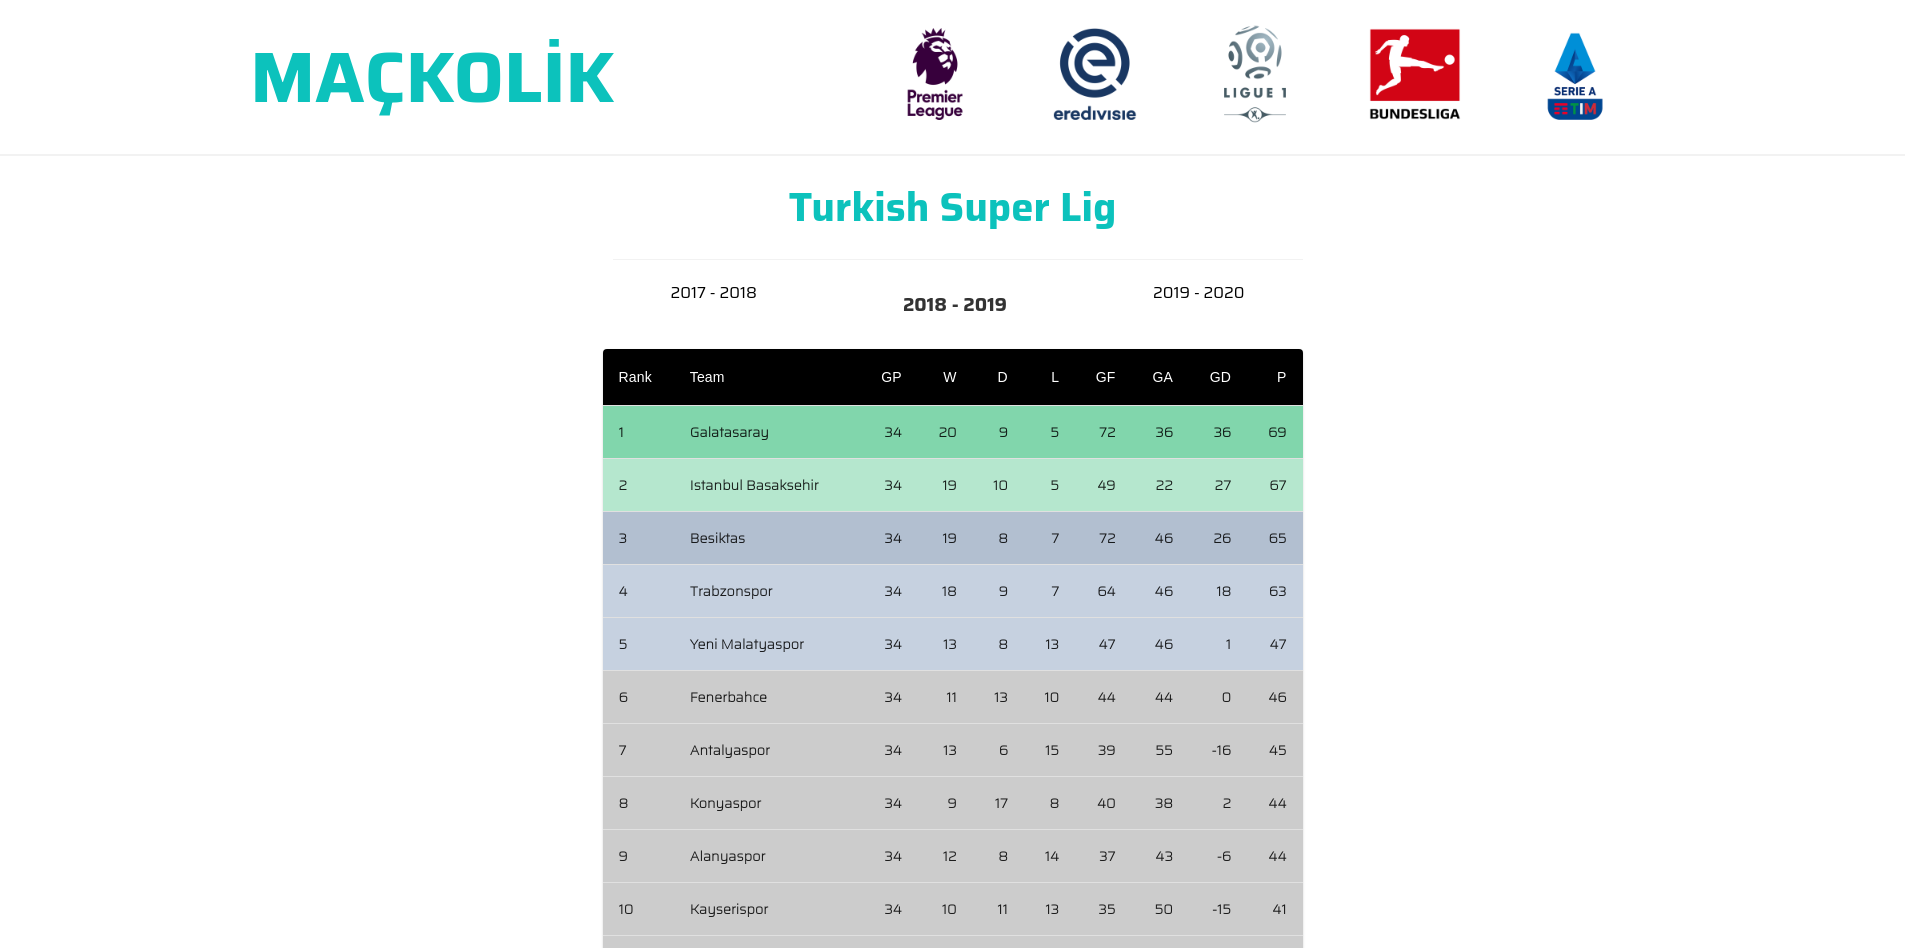
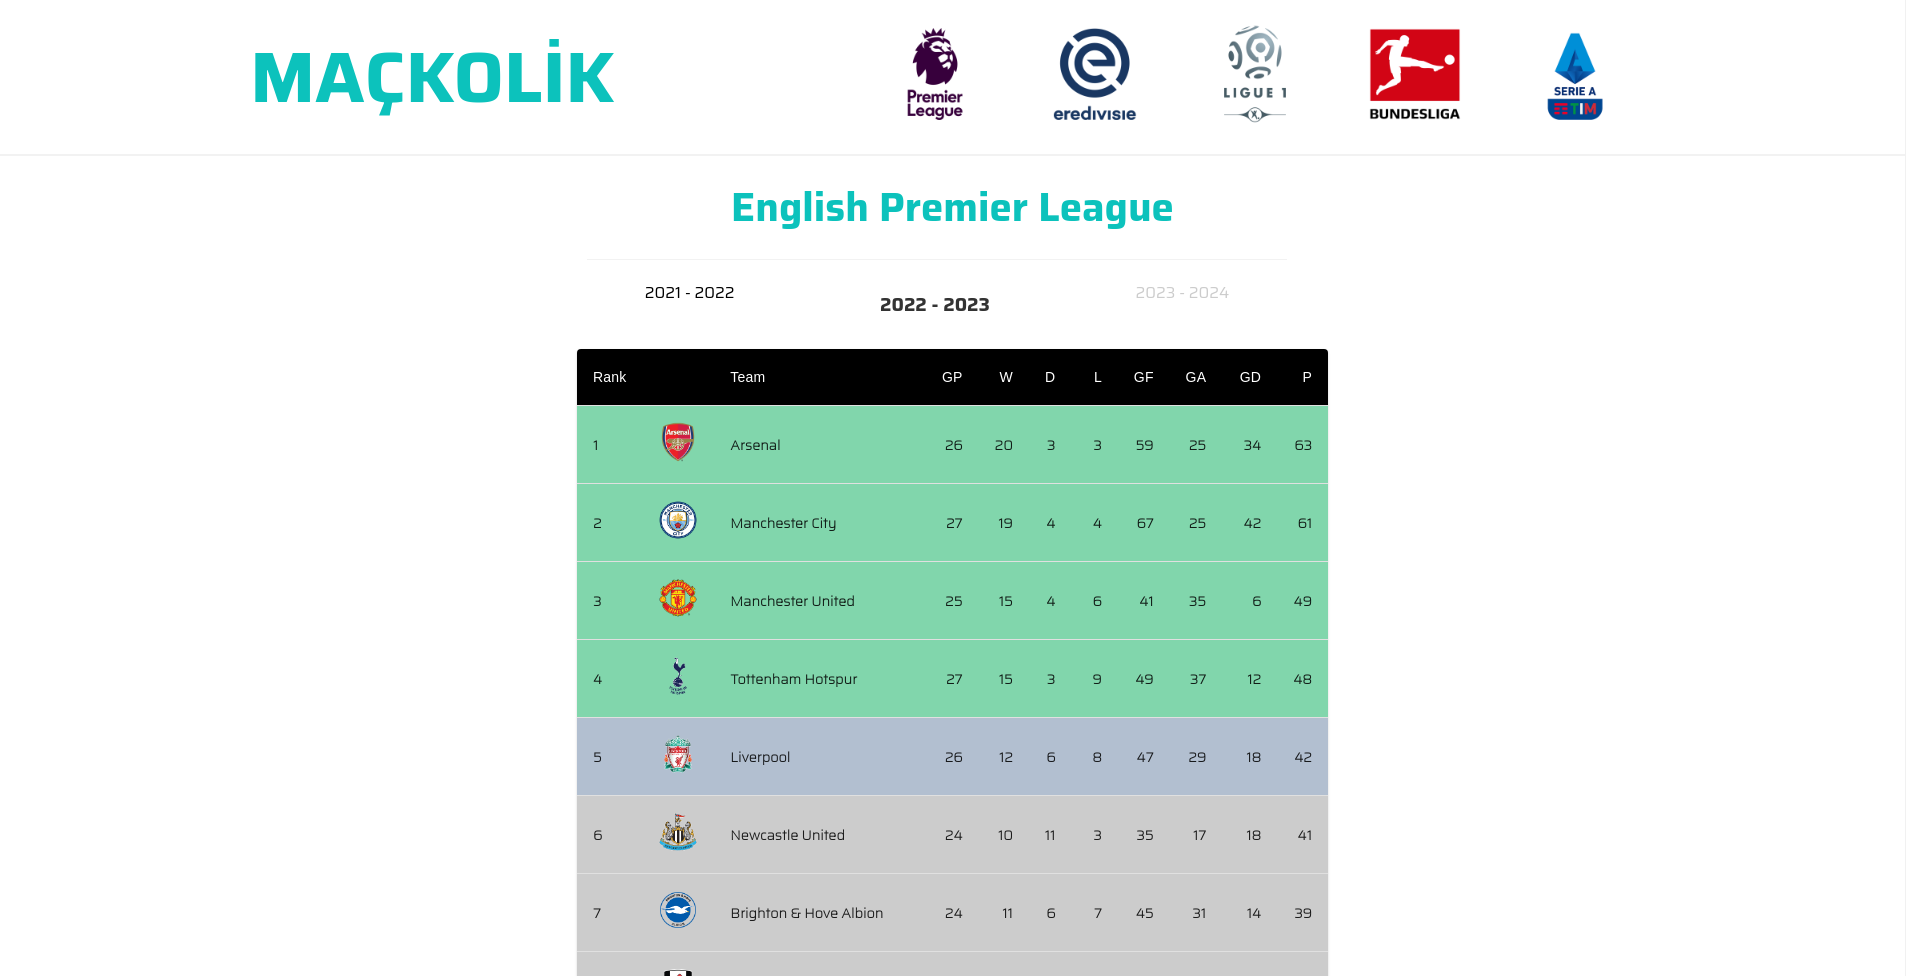
add keys to components & add new screenshot for standings

diff --git a/src/pages/components/StandingsTable.tsx b/src/pages/components/StandingsTable.tsx
@@ -44,8 +44,8 @@ export const StandingsTable = (props: { rows: Team[] }) => {
                         <StyledTableCell align="left"/>
                         <StyledTableCell align="left">Team</StyledTableCell>
 
-                        {TEAM_STATS.map(entry => (
-                            <StyledTableCell align="right">{entry}</StyledTableCell>
+                        {TEAM_STATS.map((entry, index) => (
+                            <StyledTableCell align="right" key={index}>{entry}</StyledTableCell>
                         ))}
                     </TableRow>
                 </TableHead>
@@ -72,14 +72,14 @@ export const StandingsTable = (props: { rows: Team[] }) => {
                                 </StyledTableCellTeam>
                                 <StyledTableCellTeam align="left" >
                                     {row.team.logos
-                                        ? <img src={row.team.logos[0].href} alt={row.team.name} width="30" height="30"/>
+                                        ? <img src={row.team.logos[0].href} alt={row.team.name} width="40" height="40"/>
                                         : <></>
                                     }
                                 </StyledTableCellTeam>
                                 <StyledTableCellTeam align="left" >{row.team.name}</StyledTableCellTeam>
 
-                                {TEAM_STATS_INDEX_MAP.map(entry => (
-                                    <StyledTableCellTeam align="right">{row.stats[entry].value}</StyledTableCellTeam>
+                                {TEAM_STATS_INDEX_MAP.map((entry, idx) => (
+                                    <StyledTableCellTeam align="right" key={idx}>{row.stats[entry].value}</StyledTableCellTeam>
                                 ))}
                             </StyledTableRow>
                         );

diff --git a/src/pages/components/LeagueGrid.tsx b/src/pages/components/LeagueGrid.tsx
@@ -29,7 +29,7 @@ const FormRow = (props: { rowOfLeagues: League[] }) => {
 
     return (
         <React.Fragment>
-            {rowOfLeagues.map((league: League) => {
+            {rowOfLeagues.map((league: League, index) => {
                 const randomNumber = random0to5();
 
                 const Item = styled(Paper)(({ theme }) => ({
@@ -40,7 +40,7 @@ const FormRow = (props: { rowOfLeagues: League[] }) => {
                 }));
 
                 return (
-                    <Grid item xs={4}>
+                    <Grid item xs={4} key={index}>
                         <Item className="league-item" >
                             <Link to={'/' + league.id[0] + league.id[1] + league.id[2] + '/' + getCurrentSeason()}>
                                 <img className="league-logo" src={league.logos.light} alt={league.name} />
@@ -59,8 +59,8 @@ export const LeagueGrid = (props: { leagues: League[] }) => {
     return (
         <Box sx={{ flexGrow: 1 }}>
             <Grid className="grid" container spacing={1}>
-                {rows.map((row: League[]) => (
-                    <Grid container item spacing={{ xs: 2, md: 3 }}>
+                {rows.map((row: League[], index) => (
+                    <Grid container item spacing={{ xs: 2, md: 3 }} key={index}>
                         <FormRow rowOfLeagues={row}/>
                     </Grid>))}
             </Grid>

diff --git a/src/App.tsx b/src/App.tsx
@@ -24,8 +24,8 @@ const App = () => {
                             && (<div className="content">
                                 <Switch>
                                     <Route exact path="/" component={Home} />
-                                    {leagues.data.map((league: League) => (
-                                        <Route path={`/${league.id[0] + league.id[1] + league.id[2]}/:id`}>
+                                    {leagues.data.map((league: League, index) => (
+                                        <Route path={`/${league.id[0] + league.id[1] + league.id[2]}/:id`} key={index}>
                                             <Standings leagueName={league.id[0] + league.id[1] + league.id[2]}/>
                                         </Route>))}
                                 </Switch>
